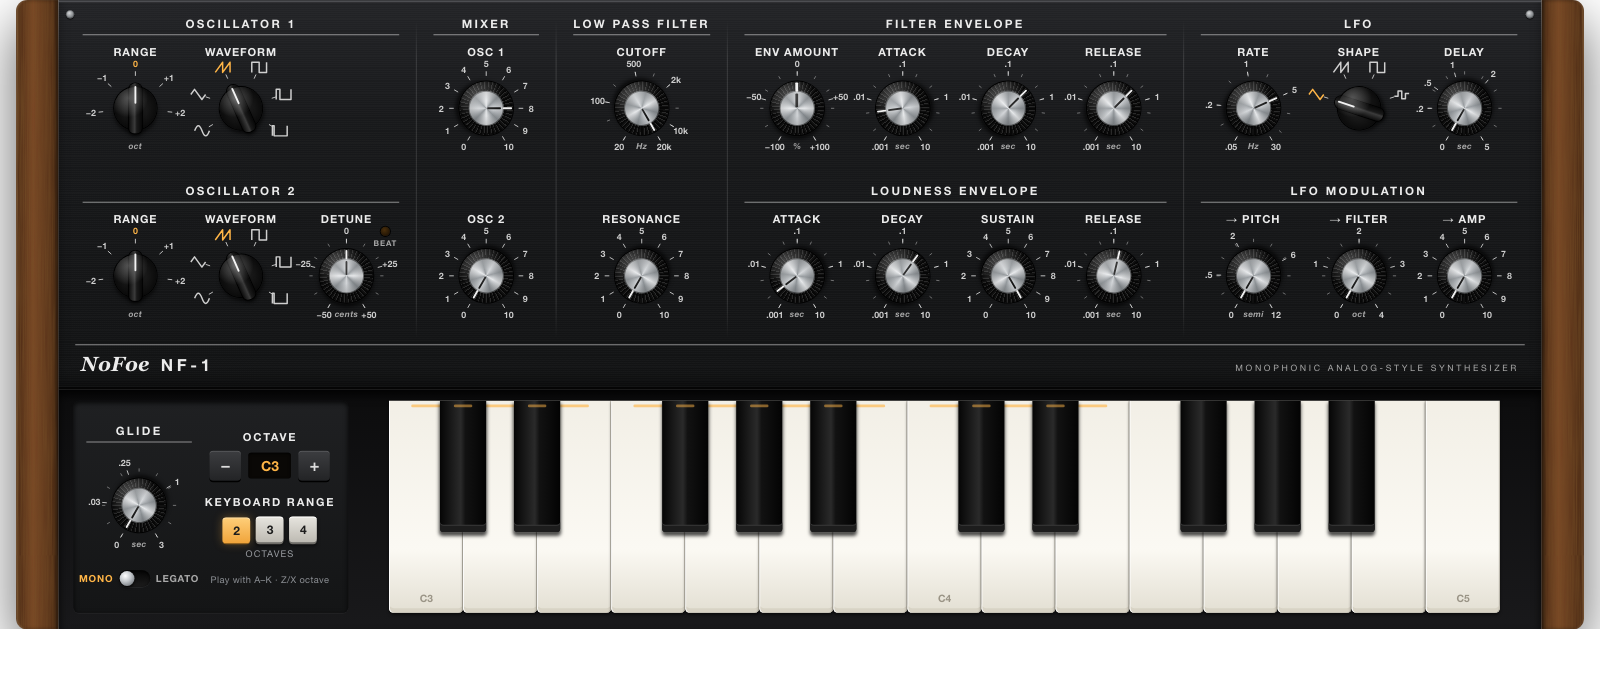
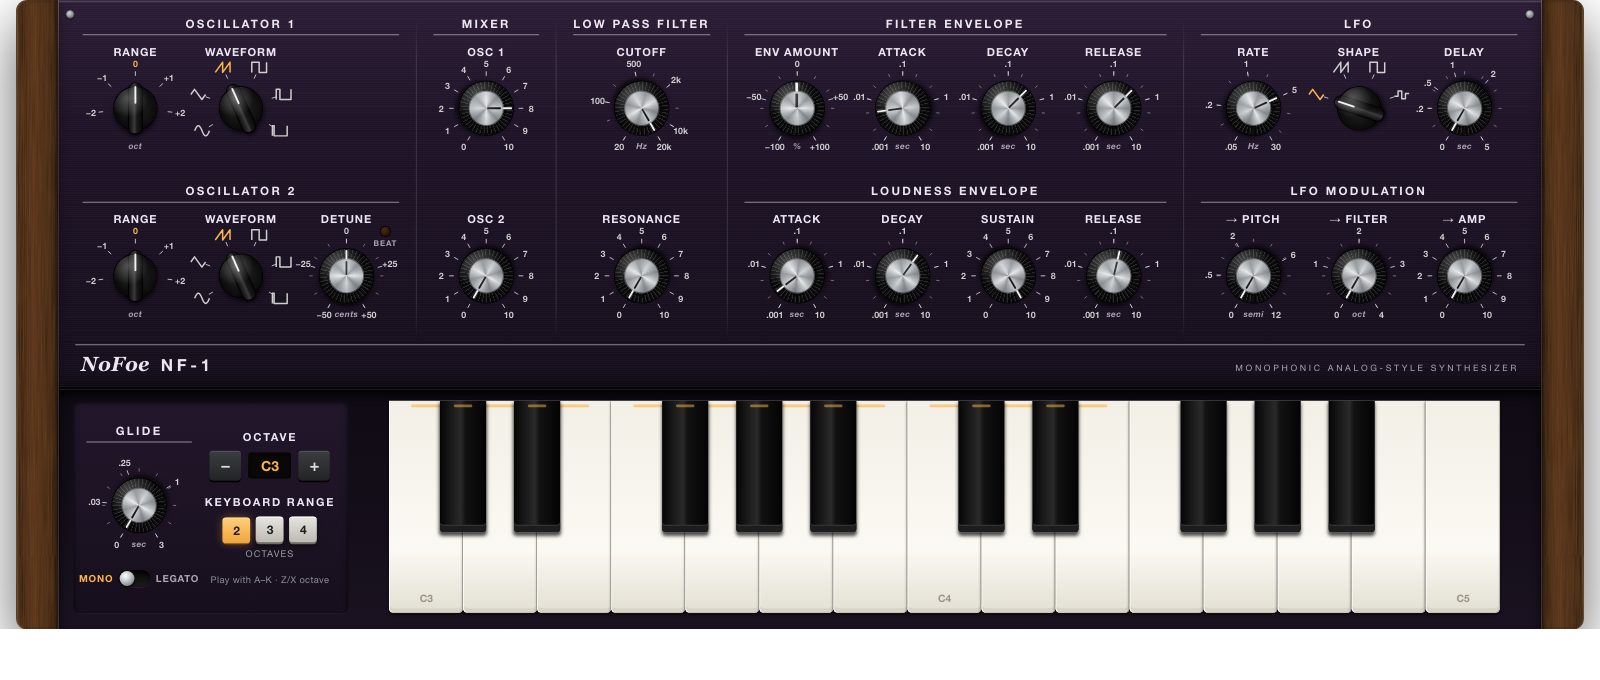
NF-1: aubergine panel and dark walnut ends
A near-black purple panel (with a matching tint on the scope strip and keyboard
area) and darker walnut, so the NF-1 stands apart from the NiniFoog's black panel
and lighter wood. Start-menu pictures re-captured.

Changed region(s): [[0.9688, 0.0, 1.0, 0.9265], [0.0, 0.0, 0.0312, 0.9265]]

diff --git a/css/synth.css b/css/synth.css
@@ -10,18 +10,21 @@
 }
 
 body[data-skin="classic"] {
+  /* NF-1: an aubergine panel (a near-black purple) in dark walnut ends, so it stands apart
+     from the NiniFoog's black panel and warmer, lighter wood */
   --desk: #141517;
   --desk-2: #1d1f23;
-  --panel: #18191b;
-  --panel-hi: #232427;
-  --ink: #ececec;          /* silk-screen print */
-  --ink-dim: #a9a9a9;
-  --rule: rgba(236, 236, 236, 0.55);
+  --panel: #1f1428;
+  --panel-hi: #2b1d36;
+  --panel-lo: #160e1c;
+  --ink: #ece6f2;          /* silk-screen print, a touch of lilac */
+  --ink-dim: #ada5b6;
+  --rule: rgba(236, 230, 242, 0.55);
   --accent: #ffb547;       /* readouts, active option */
   --led: #ff3b2f;
-  --wood-1: #5b3219;
-  --wood-2: #3e200f;
-  --wood-3: #7a4524;
+  --wood-1: #3a1f12;       /* dark walnut */
+  --wood-2: #24130a;
+  --wood-3: #4e2a17;
 }
 
 * { box-sizing: border-box; }
@@ -1191,3 +1194,13 @@ button, .btn, .toggle, .toggle-label, .lb-btn, .range-btn, .oct-btn, .tb-btn, .s
   .socket::after { content: ''; position: absolute; inset: -12px; border-radius: 50%; }
   .knob::after { content: ''; position: absolute; inset: -8px; border-radius: 50%; }
 }
+
+/* NF-1 aubergine: the panel's lower edge, the keyboard area and the scope strip share the tint */
+body[data-skin="classic"] .panel { background:
+    repeating-linear-gradient(0deg, rgba(255,255,255,0.018) 0 1px, transparent 1px 2px),
+    linear-gradient(180deg, var(--panel-hi), var(--panel) 30%, var(--panel-lo)); border-top-color: #3a2b45; }
+body[data-skin="classic"] .keybed { background: linear-gradient(#0f0a13, #1a1220); }
+body[data-skin="classic"] .perf { background: linear-gradient(#22172b, #170f1d); }
+body[data-skin="classic"] .scope-unit { background:
+    repeating-linear-gradient(90deg, rgba(255,255,255,0.012) 0 1px, transparent 1px 3px),
+    linear-gradient(#3a3040, #2a2230); }

diff --git a/js/startMenu.js b/js/startMenu.js
@@ -7,7 +7,7 @@ import { SYNTHS, SYNTH, SYNTH_CHOSEN, nameHtml } from './params.js';
 
 // Changed by tools/make-previews.sh each time the pictures are re-captured, so browsers fetch
 // the new pictures instead of showing ones they have kept from before.
-const PREVIEW_VERSION = '202611242032';
+const PREVIEW_VERSION = '202611242042';
 
 export class StartMenu {
   constructor({ skip = false } = {}) {
